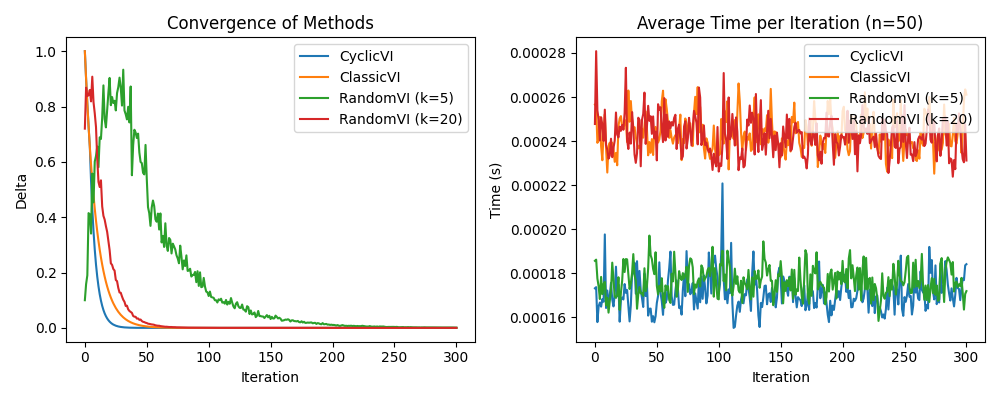
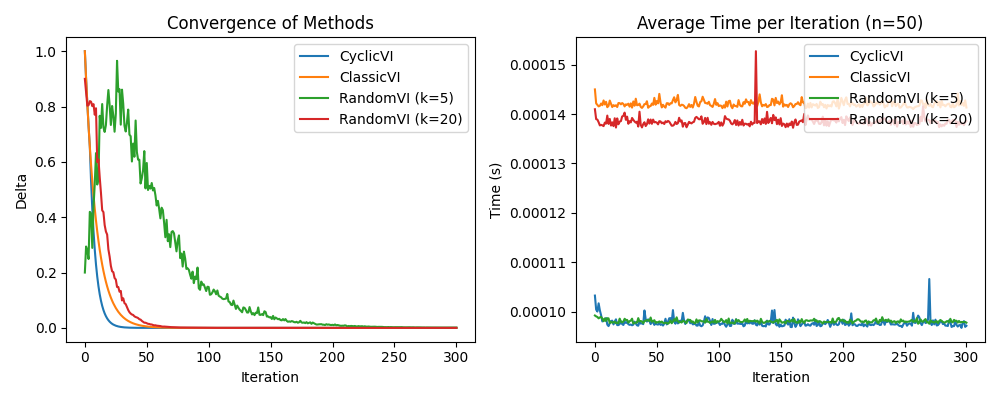
added Empirical to solver

diff --git a/solver.py b/solver.py
@@ -1,3 +1,4 @@
+from collections import Counter, defaultdict
 import matplotlib.pyplot as plt
 import numpy as np
 
@@ -29,12 +30,15 @@ class ValueIterator(ABC):
     def update_rule(self):
         pass
 
+    def get_empirical_prob(self, counters, state, action):
+        return 1
+
     @property
     def name(self):
         return type(self).__name__
 
     
-    def iterate(self, mdp, gamma, V_0):
+    def iterate(self, mdp, gamma, V_0, counters):
         V = V_0
         V_copy = None if self.update_rule != UpdateRule.AFTER_SWEEP else copy.deepcopy(V_0)
         
@@ -48,7 +52,8 @@ class ValueIterator(ABC):
                 state_action_cost = mdp.reward(state, action)
                 for (next_state, p) in mdp.transition(state, action):
                     # Values based on next states
-                    state_action_cost += gamma * p * V[next_state]
+                    empirical_prob = self.get_empirical_prob(counters, state, action)
+                    state_action_cost += gamma * p * empirical_prob * V[next_state]
 
                 costs.append(state_action_cost)
                 
@@ -93,6 +98,27 @@ class RandomVI(ValueIterator):
     def name(self):
         return "{} (k={})".format(type(self).__name__, self.k)
 
+class EmpiricalVI(ValueIterator):
+    def __init__(self):
+        super().__init__()
+
+    def get_states(self, states, **kwargs):
+        return states
+
+    def get_empirical_prob(self, counters, state, action):
+        counter = counters[state]
+        if not counter:
+            return 1
+        total = 0
+        for (action, count) in counter.items():
+            total += count
+
+        return counter[action] / total
+
+    @property
+    def update_rule(self):
+        return UpdateRule.AFTER_SWEEP
+
 class CyclicVI(ValueIterator):
     def get_states(self, states, **kwargs):
         return states
@@ -123,13 +149,14 @@ class Solver:
         V = { state: 0 for state in self.mdp.states}
         deltas = []
         time_each_step = []
+        counters = defaultdict(Counter)
 
         step = 0
         while ((threshold is not None) and (len(deltas) == 0 or deltas[-1] > threshold)) or (steps is not None and step <= steps):
             t_0 = time.time()
             
             V_0 = copy.deepcopy(V)
-            V_new = self.iterator.iterate(self.mdp, self.gamma, V)
+            V_new = self.iterator.iterate(self.mdp, self.gamma, V, counters)
             
             # Calculate the delta by seeing the biggest change between the two versions
             delta = max([abs(V_new[state] - V_0[state]) for state in V])
